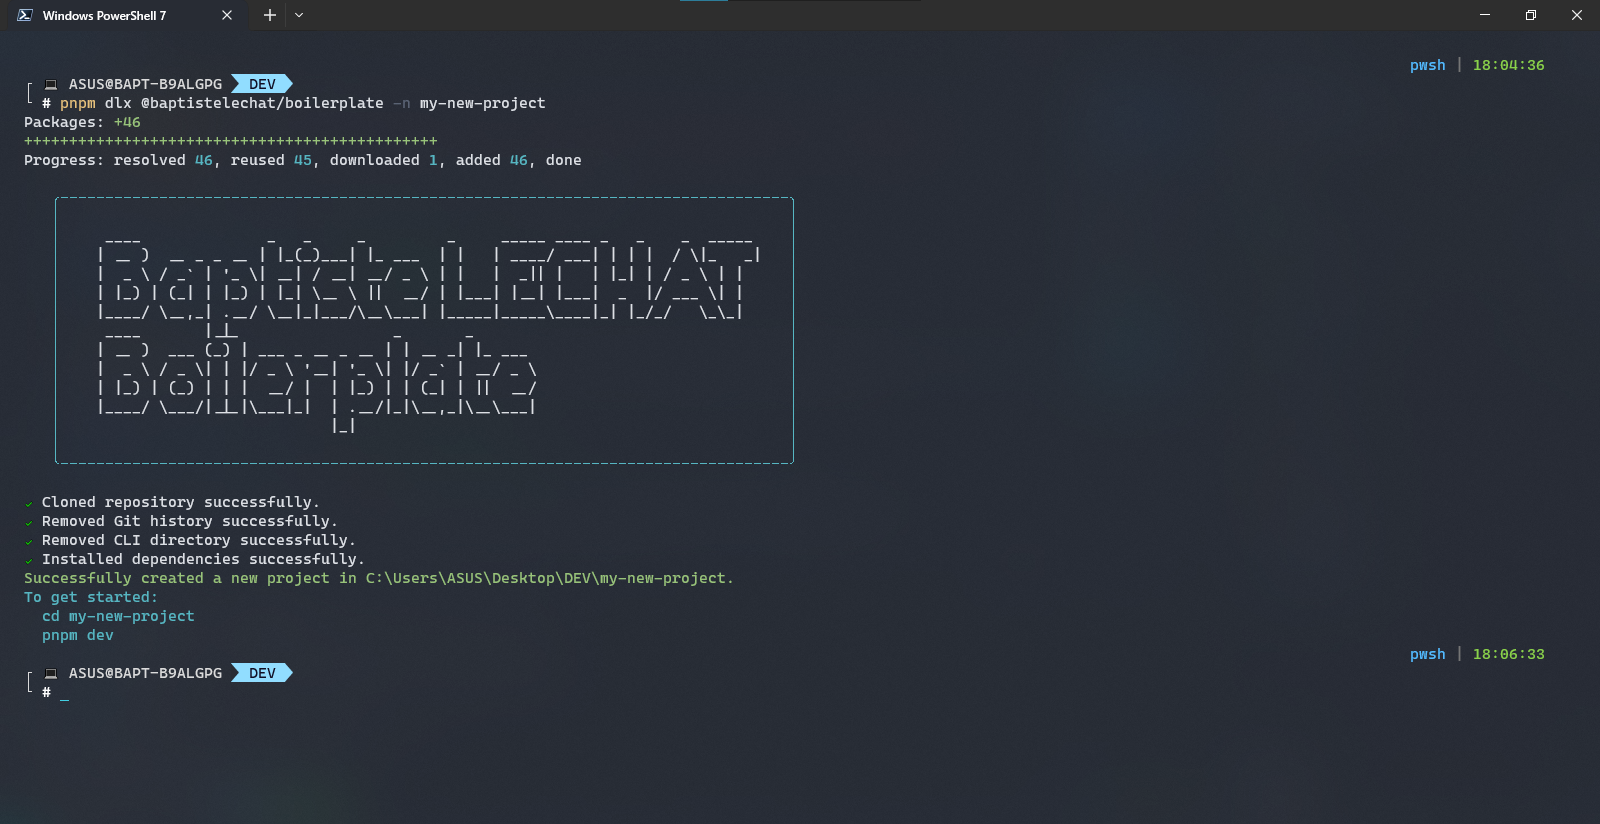
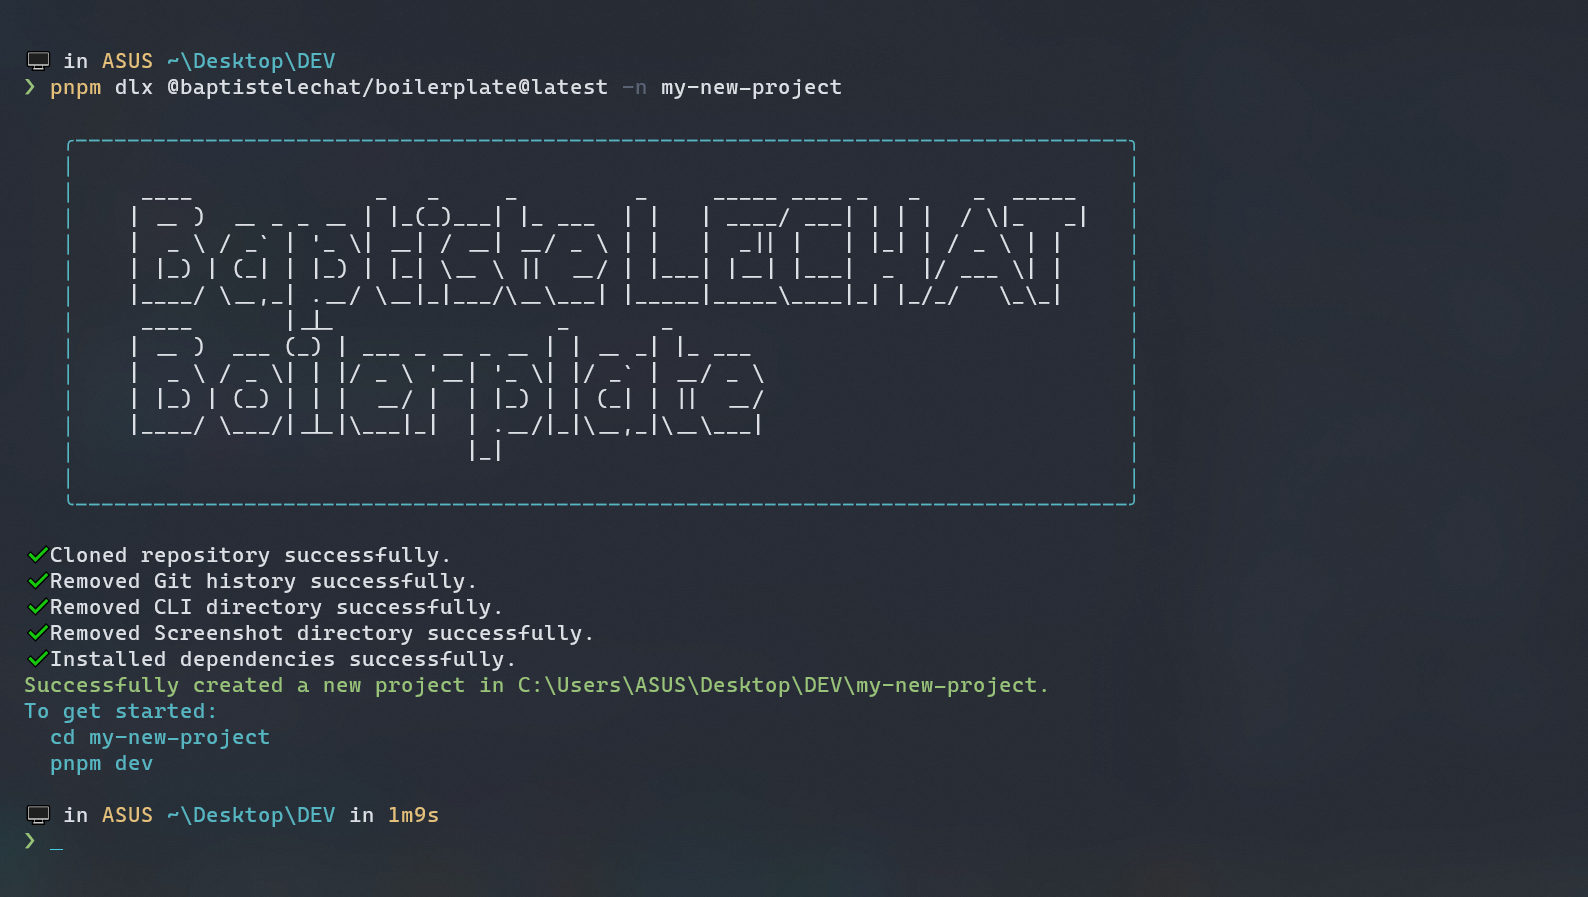
🎨 (Screenshot) - Update boilerplate cli screenshots

diff --git a/cli/README.md b/cli/README.md
@@ -33,11 +33,11 @@ Step 1 → After installing the CLI, run this command with the project name :
 
 You can also use npx or yarn dlx or pnpm dlx to run the CLI without installing it globally:
 ```bash
-npx @baptistelechat/boilerplate -n my-new-project
+npx @baptistelechat/boilerplate@latest -n my-new-project
 # or
-yarn dlx @baptistelechat/boilerplate -n my-new-project
+yarn dlx @baptistelechat/boilerplate@latest -n my-new-project
 # or
-pnpm dlx @baptistelechat/boilerplate -n my-new-project
+pnpm dlx @baptistelechat/boilerplate@latest -n my-new-project
 ```
 
 Step 2 → Navigate to the newly created project directory :
